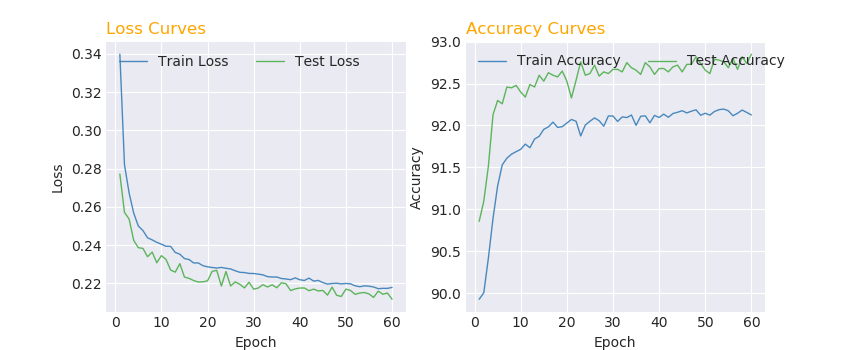
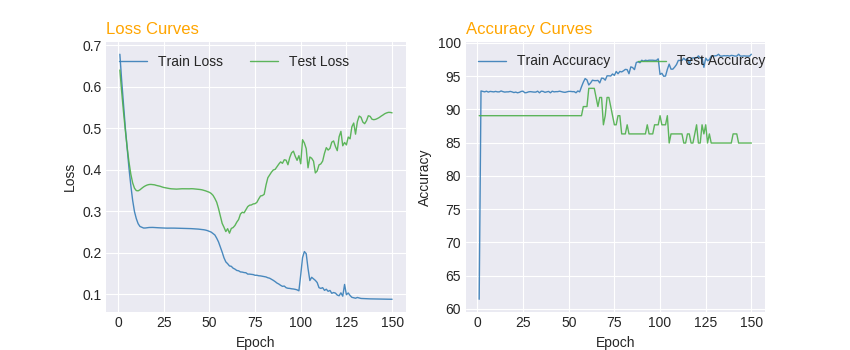
Fix for Nones causing "Model diverged with loss = NaN"

diff --git a/create_hourly_feats.py b/create_hourly_feats.py
@@ -351,7 +351,7 @@ def filter_chart_events(spark, orig_chrtevents_file_path, admissions_csv_file_pa
 
     #use subset of large CHARTEVENTS.csv file for faster development
     chrtevents_file_path_to_use = orig_chrtevents_file_path
-    use_sample_subset_lines = True
+    use_sample_subset_lines = False
     if use_sample_subset_lines:
 
         chartevents_sample_temp_file = "CHARTEVENTS_SAMPLE.csv"
@@ -363,7 +363,7 @@ def filter_chart_events(spark, orig_chrtevents_file_path, admissions_csv_file_pa
             for line in orig_file:
                 temp_file.write(line)
                 i = i + 1
-                if i > 4000:
+                if i > 500000:
                     break
         temp_file.close()
 
@@ -521,10 +521,17 @@ def aggregate_temporal_features_hourly(filtered_chartevents_path):
     df_filtered_chartevents = spark.read.csv(filtered_chartevents_path, header=True, inferSchema=False)
     df_filtered_chartevents = df_filtered_chartevents.na.drop(subset=["VALUENUM"]).withColumn("VALUENUM", df_filtered_chartevents["VALUENUM"].cast(DoubleType()))
     df_filtered_chartevents = values_filter (df_filtered_chartevents)
-    df_filtered_chartevents = df_filtered_chartevents.withColumn("VALUENUM_INT", df_filtered_chartevents["VALUENUM"].cast(IntegerType()))
-    df_filtered_chartevents = df_filtered_chartevents.drop(df_filtered_chartevents.VALUENUM).withColumnRenamed('VALUENUM_INT', 'VALUENUM')
+    #df_filtered_chartevents = df_filtered_chartevents.withColumn("VALUENUM_INT", df_filtered_chartevents["VALUENUM"].cast(IntegerType()))
+    #df_filtered_chartevents = df_filtered_chartevents.drop(df_filtered_chartevents.VALUENUM).withColumnRenamed('VALUENUM_INT', 'VALUENUM')
+    df_standardized_chartevents = df_filtered_chartevents  #TODO: add back standardize features standardize_features (df_filtered_chartevents)
+
+
+    #test only
     df_standardized_chartevents = standardize_features (df_filtered_chartevents)
+
+
     hourly_averages = df_standardized_chartevents.groupBy("HADM_ID", "ITEMNAME").pivot('HOUR_OF_OBS_AFTER_HADM', range(0,48)).avg("VALUENUM")
+
 
     #hourly_averages.show(n=15)
 
@@ -566,13 +573,23 @@ def aggregate_temporal_features_hourly(filtered_chartevents_path):
             itemname = itemnames[i]
 
             value = item_avgs.get(itemname)
+            if value is None:
+                raise Exception("Averages should never have a None value!!  There is a bug!")
 
             for hour in all_hours:
                 if itemname + "_0" in dict_hour_to_feature_row:
                     key = itemname + "_" + str(hour)
-                    value = dict_hour_to_feature_row[key]
+                    if key in dict_hour_to_feature_row:
+                        found_value = dict_hour_to_feature_row[key]
+                        if found_value is not None:
+                            value = found_value
+                    else:
+                        raise Exception("There should be entries for ALL hours for an item in the dict if there is an entry for ANY hour of that item b/c of ffil/ bfill")
 
                 sequences[hour][i] = value
+
+                if sequences[hour][i] is None:
+                    raise Exception("None of these should be set as a None!")
 
         return (row.HADM_ID, sequences)
 
@@ -682,6 +699,19 @@ def create_and_write_dataset(spark, sequences, label_name):
     hadm_sequences = spark.createDataFrame(sequences, schema=schema)
 
 
+
+
+    #TODO: AFTER BUGS HAVE BEEN RESOLVED.  THIS BLOCK CAN BE REMOVED.
+    def array_to_string(my_list):
+        return '[' + ','.join([str(elem) for elem in my_list]) + ']'
+    array_to_string_udf = udf(array_to_string, StringType())
+    hadm_sequences_mod= hadm_sequences.withColumn('SEQUENCES_STR', array_to_string_udf(hadm_sequences["SEQUENCES"]))
+    hadm_sequences_mod = hadm_sequences_mod.drop("SEQUENCES")
+    output_ = os.path.join(PATH_OUTPUT, 'hadm_sequences')  #must be absolute path
+    hadm_sequences_mod.toPandas().to_csv(os.path.join(PATH_OUTPUT, 'hadm_sequences'))
+
+
+
     hadm_ids, labels, seqs = create_dataset(spark, admissions_csv_path, hadm_sequences)
 
     pickle.dump(labels, open(os.path.join(PATH_OUTPUT, label_name + ".hadm.labels"), 'wb'), pickle.HIGHEST_PROTOCOL)
@@ -691,7 +721,7 @@ def create_and_write_dataset(spark, sequences, label_name):
 
 if __name__ == '__main__':
 
-    conf = SparkConf().setMaster("local[2]").setAppName("My App") \
+    conf = SparkConf().setMaster("local[7]").setAppName("My App") #\
         #.set("spark.driver.memory", "15g") \
         #.set("spark.executor.memory", "2g")
     sc = SparkContext(conf=conf)
@@ -704,7 +734,7 @@ if __name__ == '__main__':
     rdd_hadm_temporal_sequences_only = aggregate_temporal_features_hourly(filtered_chart_events_path)
 
     create_and_write_dataset(spark, rdd_hadm_temporal_sequences_only, "temporal_only")
-    #exit()
+
     rdd_icd9_features = get_icd9_features(spark)
 
     rdd_hadmid_to_sequences_temporal_and_static_feats = merge_temporal_sequences_and_static_features(rdd_hadm_temporal_sequences_only, rdd_icd9_features)

diff --git a/train_variable_rnn.py b/train_variable_rnn.py
@@ -22,8 +22,8 @@ LABEL_PREFIX = "temporal_only"  #temporal_and_static
 PATH_TRAIN_SEQS = os.path.join(PATH_OUTPUT, LABEL_PREFIX + ".hadm.seqs")
 PATH_TRAIN_LABELS = os.path.join(PATH_OUTPUT, LABEL_PREFIX + ".hadm.labels")
 
-NUM_EPOCHS = 60
-BATCH_SIZE = 200
+NUM_EPOCHS = 150
+BATCH_SIZE = 100
 USE_CUDA = False  # Set 'True' if you want to use GPU
 NUM_WORKERS = 0
 
@@ -74,11 +74,15 @@ for epoch in range(NUM_EPOCHS):
 
 	train_actual = train_results[:, :1]
 	train_pred = train_results[:, 1:]
+	#print("TrainActl: ", train_actual)
+	#print("TrainPred: ", train_pred)
 	train_roc = get_roc_auc(train_actual,  train_pred)
 	print("Train Roc_auc: " + str(train_roc))
 
 	valid_actual = valid_results[:, :1]
 	valid_pred = valid_results[:, 1:]
+	#print("ValidActl: ", valid_actual)
+	#print("ValidPred: ", valid_pred)
 	valid_roc = get_roc_auc(valid_actual,  valid_pred)
 	print("Valid Roc_auc: " + str(valid_roc))
 
